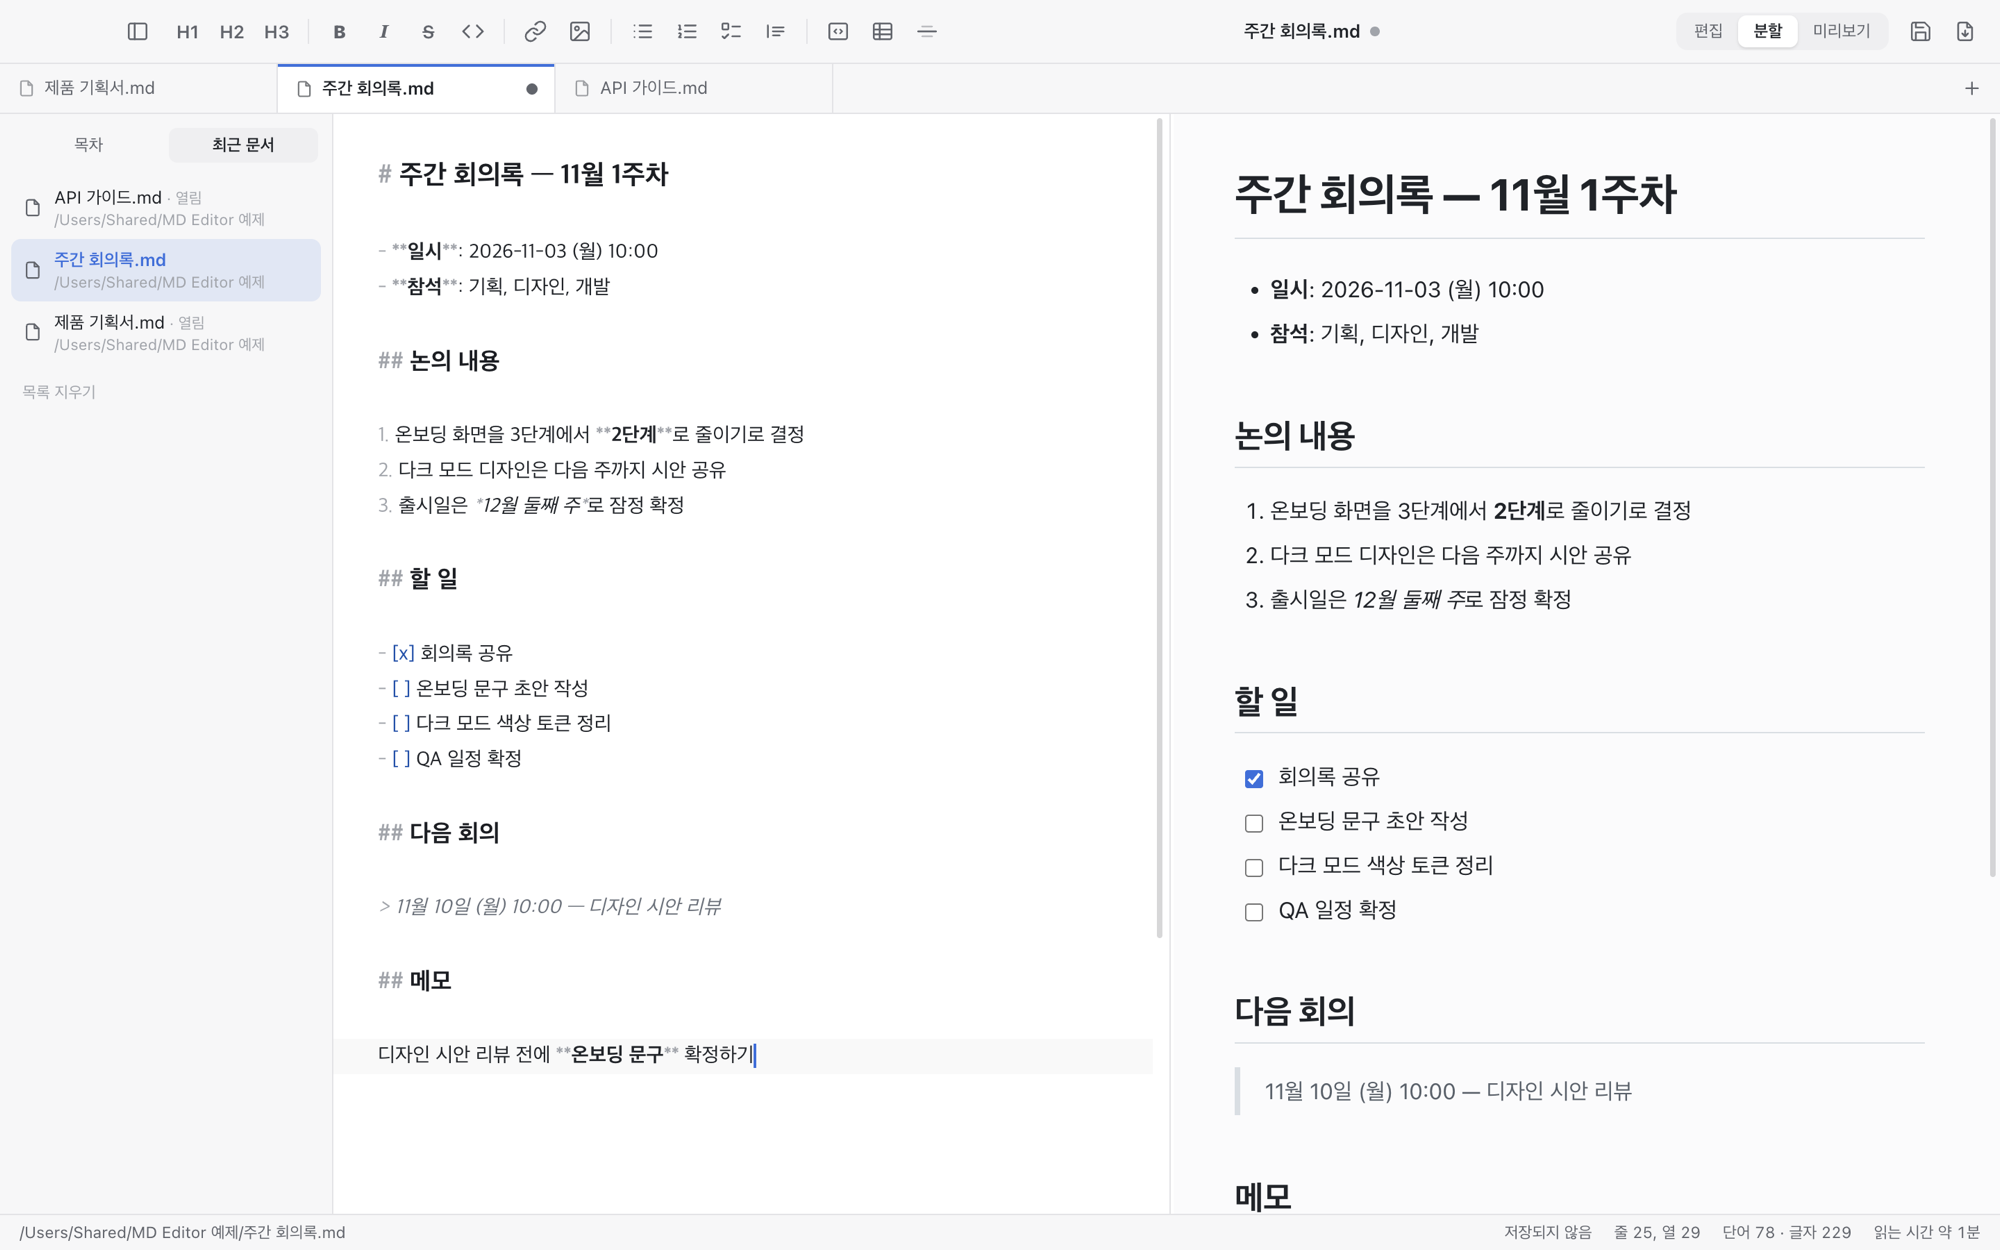
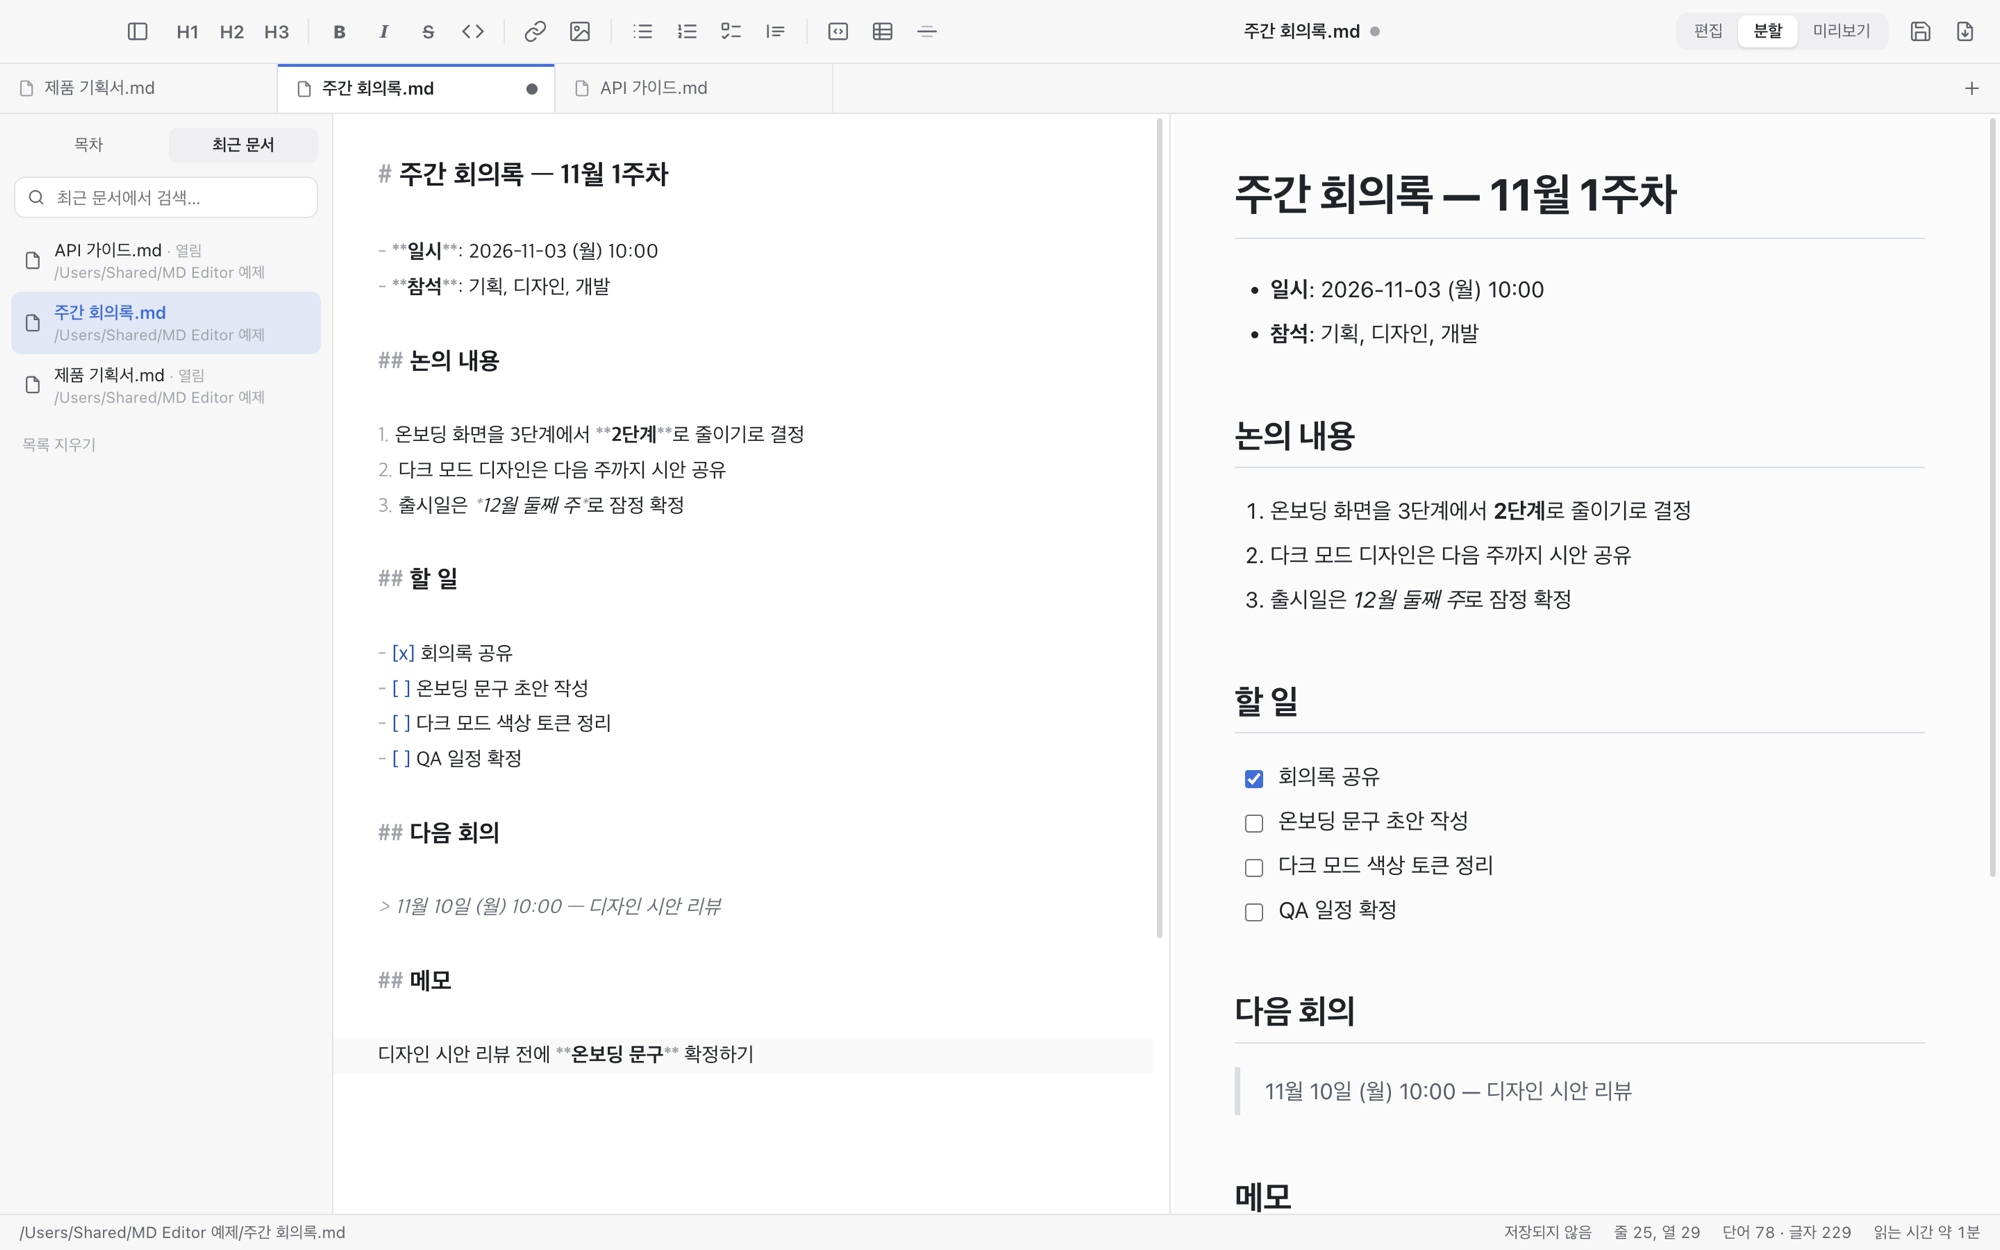
feat: 최근 문서에서 내용 찾기, v0.6.0
- recent:search IPC: 최근 문서 목록의 파일만 읽어 줄 단위로 검색
  (정규식 특수문자 이스케이프, NFC 정규화, 파일당 20줄·2MB 제한)
- 사이드바 최근 문서 위 검색창, 파일별 결과·일치 줄 미리보기·강조
- 결과 클릭 → openPath(reveal) → tab:reveal로 해당 줄의 단어 선택
  (이미 열린 문서는 그 탭으로 전환, 미리보기만 모드에서는 미리보기 스크롤)
- 메뉴·단축키: 편집 → 최근 문서에서 찾기 (⇧⌘F)
- README: 검색 소개·스크린샷, 탭·최근 문서 스크린샷 갱신

Changed region(s): [[0.0, 0.156, 0.124, 0.3432]]

diff --git a/src/renderer/app.js b/src/renderer/app.js
@@ -1,5 +1,5 @@
 // MD Editor — renderer 진입점
-import { createEditor, createState, serializeState, deserializeState, replaceDoc, applyFormat, editorCommands, toggleTaskAtLine } from './editor.js';
+import { createEditor, createState, serializeState, deserializeState, revealMatch, replaceDoc, applyFormat, editorCommands, toggleTaskAtLine } from './editor.js';
 import { renderMarkdown, renderMermaid, slugify } from './markdown.js';
 import previewCss from './preview.css';
 
@@ -695,7 +695,8 @@ window.addEventListener(
 // 폴더 탐색은 제공하지 않는다. 사용자가 이미 연 적 있는 파일만 보여준다.
 async function loadRecent() {
   const items = await api.recentList();
-  $('#recent-clear').hidden = !items.length;
+  // 검색 결과를 보여 주는 중에는 '목록 지우기'를 숨긴다
+  $('#recent-clear').hidden = !items.length || document.querySelector('#search-results')?.hidden === false;
   if (!items.length) {
     el.recentList.innerHTML = '<li class="sb-empty">최근에 연 문서가 여기에 표시됩니다.<br/>⌘O로 파일을 열거나 창에 끌어다 놓으세요.</li>';
     return;
@@ -721,6 +722,107 @@ async function loadRecent() {
   );
 }
 $('#recent-clear').addEventListener('click', () => api.recentClear());
+
+// ───────────────────────── 최근 문서 내용 검색 ─────────────────────────
+const queryInput = $('#recent-query');
+const resultsBox = $('#search-results');
+let searchTimer = null;
+let searchSeq = 0;
+let lastResults = [];
+
+function snippetHtml(text, start, length) {
+  const from = Math.max(0, start - 28);
+  const to = Math.min(text.length, start + length + 70);
+  return (
+    (from > 0 ? '…' : '') +
+    escapeHtml(text.slice(from, start).trimStart()) +
+    `<mark>${escapeHtml(text.slice(start, start + length))}</mark>` +
+    escapeHtml(text.slice(start + length, to)) +
+    (to < text.length ? '…' : '')
+  );
+}
+
+function setSearchMode(on) {
+  resultsBox.hidden = !on;
+  el.recentList.hidden = on;
+  $('#recent-clear').hidden = on || !el.recentList.querySelector('.recent-item');
+}
+
+async function runSearch() {
+  const query = queryInput.value.trim();
+  const seq = ++searchSeq;
+  if (!query) {
+    setSearchMode(false);
+    lastResults = [];
+    return;
+  }
+  const results = await api.recentSearch(query);
+  if (seq !== searchSeq) return; // 그 사이 검색어가 바뀜
+  lastResults = results;
+  setSearchMode(true);
+  if (!results.length) {
+    resultsBox.innerHTML = `<div class="sb-empty">"${escapeHtml(query)}"이(가) 들어간 문서가 없습니다.<br/>최근 문서 목록에 있는 파일만 검색합니다.</div>`;
+    return;
+  }
+  const total = results.reduce((n, r) => n + r.total, 0);
+  resultsBox.innerHTML =
+    `<div class="sr-summary">문서 ${results.length}개 · ${total}곳</div>` +
+    results
+      .map(
+        (r, i) => `<div class="sr-file" data-i="${i}">
+          <div class="sr-head" data-i="${i}" title="${escapeHtml(r.path)}"><svg><use href="#i-file"/></svg><span class="sr-name">${escapeHtml(r.name)}</span>${r.total ? `<span class="sr-count">${r.total}</span>` : ''}</div>
+          ${r.matches
+            .map((m, j) => `<div class="sr-line" data-i="${i}" data-j="${j}"><span class="sr-no">${m.line + 1}</span><span class="sr-text">${snippetHtml(m.text, m.start, m.length)}</span></div>`)
+            .join('')}
+          ${r.total > r.matches.length ? `<div class="sr-more">… ${r.total - r.matches.length}곳 더</div>` : ''}
+        </div>`,
+      )
+      .join('');
+}
+
+function openResult(i, j = 0) {
+  const r = lastResults[i];
+  if (!r) return;
+  const m = r.matches[j];
+  api.recentOpen(r.path, m ? { line: m.line, query: queryInput.value.trim() } : null);
+}
+
+queryInput.addEventListener('input', () => {
+  clearTimeout(searchTimer);
+  searchTimer = setTimeout(runSearch, 180);
+});
+queryInput.addEventListener('keydown', (e) => {
+  if (e.key === 'Enter') openResult(0);
+  else if (e.key === 'Escape') {
+    queryInput.value = '';
+    runSearch();
+  }
+});
+resultsBox.addEventListener('click', (e) => {
+  const row = e.target.closest('.sr-line, .sr-head');
+  if (row) openResult(Number(row.dataset.i), Number(row.dataset.j ?? 0));
+});
+// 검색 중에 최근 문서 목록이 바뀌면(파일을 열거나 저장) 결과도 다시
+api.onRecentChanged(() => queryInput.value.trim() && runSearch());
+
+function focusRecentSearch() {
+  if (!prefs.sidebar) api.setSettings({ sidebar: true });
+  document.querySelector('.sb-tab[data-tab="recent"]').click();
+  queryInput.focus();
+  queryInput.select();
+}
+
+// 검색 결과로 문서를 열면 main이 보내 준다: 해당 줄의 검색어를 선택
+api.onTabReveal(({ tabId, line, query }) => {
+  setTimeout(() => {
+    if (doc?.id !== tabId) activateTab(tabId);
+    revealMatch(view, line, query);
+    if (prefs.viewMode === 'preview') {
+      const target = [...lineMap].reverse().find((x) => x.line <= line);
+      if (target) el.previewPane.scrollTo({ top: target.el.offsetTop - 40, behavior: 'smooth' });
+    }
+  }, 60);
+});
 api.onRecentChanged(loadRecent);
 
 document.querySelectorAll('.sb-tab').forEach((tab) =>
@@ -832,6 +934,7 @@ const commands = {
   newTab: () => newTab(),
   closeTab: () => closeTab(),
   nextTab: () => cycleTab(1),
+  searchRecent: () => focusRecentSearch(),
   detachTab: async () => {
     if (!(await api.tabDetach(doc.id))) toast('탭이 하나뿐이라 새 창으로 옮길 수 없습니다');
   },

diff --git a/src/main/main.js b/src/main/main.js
@@ -239,7 +239,8 @@ async function readDoc(filePath) {
 }
 
 /** 이미 열린 파일이면 그 탭으로 이동, 아니면 대상 창에 새 탭(빈 탭이면 재사용) */
-async function openPath(filePath, w = targetWindow()) {
+/** @param {{line:number, query:string}|null} reveal 열고 나서 이 줄의 검색어를 선택(최근 문서 검색 결과용) */
+async function openPath(filePath, w = targetWindow(), reveal = null) {
   filePath = path.resolve(filePath);
   for (const other of windows.values()) {
     for (const t of other.tabs.values()) {
@@ -247,6 +248,7 @@ async function openPath(filePath, w = targetWindow()) {
         other.win.show();
         other.win.focus();
         other.win.webContents.send('tab:activate', t.id);
+        if (reveal) other.win.webContents.send('tab:reveal', { tabId: t.id, ...reveal });
         return;
       }
     }
@@ -260,7 +262,9 @@ async function openPath(filePath, w = targetWindow()) {
   const reused = reusableTab(w);
   const tab = reused ?? newTab(w);
   // 새로 만든 탭인데 열기에 실패하면 렌더러는 그 탭을 모르므로 main에서만 지운다
-  if (!(await loadInto(tab, filePath)) && !reused) w.tabs.delete(tab.id);
+  const loaded = await loadInto(tab, filePath);
+  if (!loaded && !reused) w.tabs.delete(tab.id);
+  if (loaded && reveal) w.win.webContents.send('tab:reveal', { tabId: tab.id, ...reveal });
 }
 
 async function loadInto(tab, filePath) {
@@ -537,10 +541,47 @@ ipcMain.handle('recent:list', () =>
     };
   }),
 );
-ipcMain.handle('recent:open', (e, p) => {
+ipcMain.handle('recent:open', (e, p, reveal = null) => {
   if (!settings.recentFiles.includes(p)) return false;
-  openPath(p, winOf(e.sender));
+  const r = reveal && Number.isInteger(reveal.line) ? { line: reveal.line, query: String(reveal.query || '').slice(0, 200) } : null;
+  openPath(p, winOf(e.sender), r);
   return true;
+});
+
+// 최근 문서 내용 검색 — 최근 문서 목록에 있는 파일만 읽는다(폴더 탐색 없음)
+const SEARCH_MAX_BYTES = 2 * 1024 * 1024;
+const SEARCH_MAX_LINES_PER_FILE = 20;
+ipcMain.handle('recent:search', async (_e, rawQuery) => {
+  const query = String(rawQuery || '').normalize('NFC').trim().slice(0, 200);
+  if (!query) return [];
+  const re = new RegExp(query.replace(/[.*+?^${}()|[\]\\]/g, '\\$&'), 'giu');
+  const results = [];
+  for (const file of settings.recentFiles) {
+    try {
+      if (!isMarkdownPath(file)) continue;
+      const stat = await fsp.stat(file);
+      if (!stat.isFile() || stat.size > SEARCH_MAX_BYTES) continue;
+      const lines = (await fsp.readFile(file, 'utf8')).normalize('NFC').split(/\r?\n/);
+      const matches = [];
+      let total = 0;
+      lines.forEach((text, i) => {
+        re.lastIndex = 0;
+        const m = re.exec(text);
+        if (!m) return;
+        total++;
+        if (matches.length < SEARCH_MAX_LINES_PER_FILE) matches.push({ line: i, text: text.slice(0, 500), start: m.index, length: m[0].length });
+      });
+      // 파일 이름이 일치해도 결과에 넣는다
+      const nameHit = path.basename(file).normalize('NFC').toLocaleLowerCase().includes(query.toLocaleLowerCase());
+      if (total || nameHit) {
+        const dir = path.dirname(file);
+        results.push({ path: file, name: path.basename(file), dir: dir.startsWith(home) ? '~' + dir.slice(home.length) : dir, total, matches });
+      }
+    } catch {
+      /* 없는 파일·읽기 실패는 건너뜀 */
+    }
+  }
+  return results;
 });
 ipcMain.handle('recent:remove', (_e, p) => removeRecent(p));
 ipcMain.handle('recent:clear', () => {
@@ -689,6 +730,7 @@ function buildMenu() {
         { label: '전체 선택', accelerator: 'CmdOrCtrl+A', click: () => send('selectAll') },
         { type: 'separator' },
         { label: '찾기 / 바꾸기', accelerator: 'CmdOrCtrl+F', click: () => send('find') },
+        { label: '최근 문서에서 찾기', accelerator: 'CmdOrCtrl+Shift+F', click: () => send('searchRecent') },
       ],
     },
     {

diff --git a/src/renderer/styles.css b/src/renderer/styles.css
@@ -296,6 +296,38 @@ body[data-view="split"] #preview-pane { background: color-mix(in srgb, var(--sur
 .sb-empty { color: var(--fg-faint); padding: 14px 8px; line-height: 1.6; font-size: 12px; }
 
 .recent-list { list-style: none; margin: 0; padding: 0; }
+.recent-list[hidden] { display: none; }
+.recent-search {
+  display: flex; align-items: center; gap: 6px;
+  margin: 0 2px 8px; padding: 0 8px; height: 30px;
+  border: 1px solid var(--border); border-radius: 8px; background: var(--bg); color: var(--fg-muted);
+}
+.recent-search:focus-within { border-color: var(--accent); box-shadow: 0 0 0 3px var(--accent-soft); }
+.recent-search svg { width: 14px; height: 14px; flex-shrink: 0; }
+.recent-search input {
+  flex: 1; min-width: 0; border: 0; outline: 0; background: transparent; color: var(--fg);
+  font: inherit; font-size: 12.5px;
+}
+.search-results[hidden] { display: none; }
+.sr-summary { font-size: 11px; color: var(--fg-faint); padding: 0 6px 6px; }
+.sr-file { margin-bottom: 8px; }
+.sr-head {
+  display: flex; align-items: center; gap: 6px; padding: 4px 6px; border-radius: 6px;
+  font-weight: 600; font-size: 12.5px; cursor: pointer;
+}
+.sr-head:hover { background: var(--hover); }
+.sr-head svg { width: 14px; height: 14px; flex-shrink: 0; color: var(--fg-muted); }
+.sr-name { flex: 1; min-width: 0; overflow: hidden; text-overflow: ellipsis; white-space: nowrap; }
+.sr-count { font-size: 10.5px; font-weight: 600; padding: 1px 6px; border-radius: 8px; background: var(--surface-2); color: var(--fg-muted); }
+.sr-line {
+  display: flex; gap: 6px; padding: 3px 6px 3px 26px; border-radius: 6px; cursor: pointer;
+  font-size: 12px; line-height: 1.5; color: var(--fg-muted);
+}
+.sr-line:hover { background: var(--hover); color: var(--fg); }
+.sr-no { flex-shrink: 0; min-width: 18px; text-align: right; color: var(--fg-faint); font-variant-numeric: tabular-nums; }
+.sr-text { min-width: 0; overflow: hidden; display: -webkit-box; -webkit-line-clamp: 2; -webkit-box-orient: vertical; overflow-wrap: anywhere; }
+.sr-text mark { background: var(--match); color: var(--fg); border-radius: 2px; padding: 0 1px; }
+.sr-more { padding: 2px 6px 0 26px; font-size: 11px; color: var(--fg-faint); }
 .recent-item {
   display: flex; align-items: center; gap: 8px;
   padding: 6px 8px; border-radius: 7px; cursor: pointer; color: var(--fg);

diff --git a/src/renderer/index.html b/src/renderer/index.html
@@ -26,6 +26,7 @@
       <symbol id="i-save" viewBox="0 0 24 24"><path d="M19 21H5a2 2 0 0 1-2-2V5a2 2 0 0 1 2-2h11l5 5v11a2 2 0 0 1-2 2z"/><path d="M17 21v-8H7v8M7 3v5h8"/></symbol>
             <symbol id="i-file" viewBox="0 0 24 24"><path d="M14 3H7a2 2 0 0 0-2 2v14a2 2 0 0 0 2 2h10a2 2 0 0 0 2-2V8z"/><path d="M14 3v5h5"/></symbol>
       <symbol id="i-x" viewBox="0 0 24 24"><path d="M18 6 6 18M6 6l12 12"/></symbol>
+      <symbol id="i-search" viewBox="0 0 24 24"><circle cx="11" cy="11" r="7"/><path d="m20 20-3.5-3.5"/></symbol>
       <symbol id="i-plus" viewBox="0 0 24 24"><path d="M12 5v14M5 12h14"/></symbol>
       <symbol id="i-update" viewBox="0 0 24 24"><path d="M21 12a9 9 0 1 1-3-6.7L21 8"/><path d="M21 3v5h-5"/><path d="M12 8v5l3 2"/></symbol>
     </defs>
@@ -82,6 +83,11 @@
       </div>
       <nav id="toc" class="sb-panel active" data-panel="toc"></nav>
       <div id="recent" class="sb-panel" data-panel="recent">
+        <label class="recent-search" title="최근 문서에서 찾기 (⇧⌘F)">
+          <svg><use href="#i-search"/></svg>
+          <input id="recent-query" type="search" placeholder="최근 문서에서 검색…" spellcheck="false" autocomplete="off" />
+        </label>
+        <div id="search-results" class="search-results" hidden></div>
         <ul id="recent-list" class="recent-list"></ul>
         <button id="recent-clear" class="recent-clear" type="button">목록 지우기</button>
       </div>

diff --git a/src/renderer/editor.js b/src/renderer/editor.js
@@ -259,6 +259,18 @@ export const editorCommands = {
   find: (v) => openSearchPanel(v),
 };
 
+/** 검색 결과로 이동: 해당 줄의 검색어를 선택하고 화면 가운데로 */
+export function revealMatch(view, lineIndex, query) {
+  const doc = view.state.doc;
+  const line = doc.line(Math.min(Math.max(lineIndex, 0), doc.lines - 1) + 1);
+  const text = line.text.normalize('NFC').toLocaleLowerCase();
+  const at = query ? text.indexOf(query.normalize('NFC').toLocaleLowerCase()) : -1;
+  const from = at >= 0 ? line.from + at : line.from;
+  const to = at >= 0 ? from + query.length : line.from;
+  view.dispatch({ selection: EditorSelection.range(from, to), effects: EditorView.scrollIntoView(from, { y: 'center' }) });
+  view.focus();
+}
+
 /** 미리보기의 체크박스 클릭 → 원본 줄의 [ ] ↔ [x] 토글 */
 export function toggleTaskAtLine(view, lineIndex) {
   const line = view.state.doc.line(lineIndex + 1);

diff --git a/src/main/preload.js b/src/main/preload.js
@@ -35,7 +35,9 @@ contextBridge.exposeInMainWorld('api', {
 
   // 최근 문서 (폴더 탐색 API는 제공하지 않음)
   recentList: () => ipcRenderer.invoke('recent:list'),
-  recentOpen: (p) => ipcRenderer.invoke('recent:open', p),
+  recentOpen: (p, reveal = null) => ipcRenderer.invoke('recent:open', p, reveal),
+  recentSearch: (query) => ipcRenderer.invoke('recent:search', query),
+  onTabReveal: (cb) => on('tab:reveal', cb),
   recentRemove: (p) => ipcRenderer.invoke('recent:remove', p),
   recentClear: () => ipcRenderer.invoke('recent:clear'),
   onRecentChanged: (cb) => on('recent:changed', cb),

diff --git a/CHANGELOG.md b/CHANGELOG.md
@@ -1,5 +1,11 @@
 # 변경 이력
 
+## 0.6.0 — 2026-11-05
+- **최근 문서에서 찾기** (`⇧⌘F` / Windows `Ctrl+Shift+F`)
+  - 사이드바 최근 문서 위의 검색창: 최근에 연 문서들의 내용에서 단어를 찾아 파일별·줄별로 표시, 찾은 단어 강조
+  - 결과를 누르면 문서를 열고(이미 열려 있으면 그 탭으로) 해당 줄의 단어를 선택
+  - 최근 문서 목록에 있는 파일만 검색 (폴더 탐색 없음), `Enter` 첫 결과 열기, `Esc` 지우기
+
 ## 0.5.0 — 2026-11-05
 - **탭을 다른 창으로 옮기기**
   - 탭을 창 밖으로 끌어 놓으면 그 자리에 새 창으로 분리
